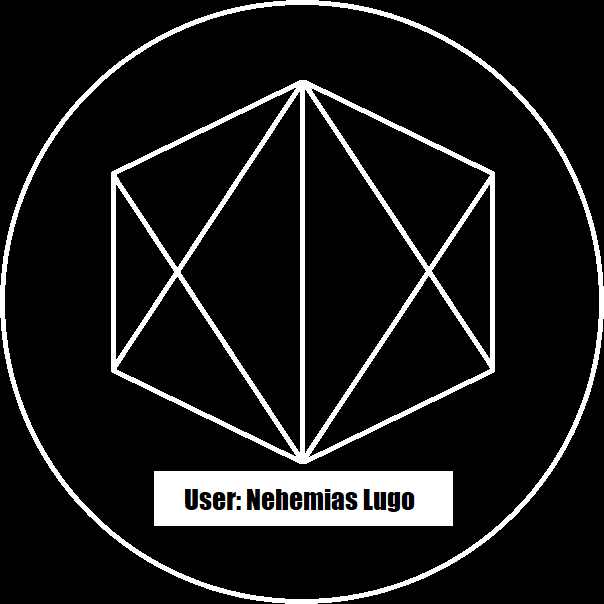
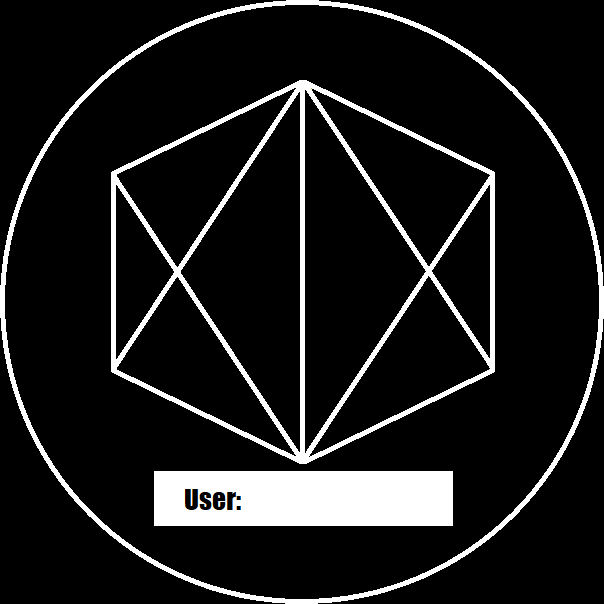
se agrego color celeste a textos

Changed region(s): [[0.3874, 0.8046, 0.6854, 0.8642]]

diff --git a/index.html b/index.html
@@ -14,8 +14,10 @@
         <img src="assets/imagen.png" alt="logo" width="500"/>
     </div>
 
+    <h2 style="position: absolute; top: 524px; left: 665px; color: black;">NEHEMIAS LUGO</h2>
+
     <h2>Descripcion Personal:</h2>
-    <p>Hola, soy Nehemias Lugo. <br>Nací el 26 de enero del 2005 en la ciudad de Selva, Santiago del estero, Argentina.<br>Comencé a estudiar la lógica de programación a temprana edad modificando videojuegos de Pokêmon para la Game Boy Advance haciendo scripts de eventos, siendo este fue mi primer acercamiento a la creación de videojuegos.<br> Aqui un pequeño ejemplo de cosas que aprendî:</p>
+    <p>Nombre: Nehemias Lugo. <br>Fecha de Nacimiento: 26 de enero del 2005. <br>Localidad: ciudad de Selva, Santiago del estero, Argentina.<br><br>Comencé a estudiar la lógica de programación a temprana edad modificando videojuegos de Pokêmon para la Game Boy Advance haciendo scripts de eventos, siendo este fue mi primer acercamiento a la creación de videojuegos.<br> Aqui un pequeño ejemplo de cosas que aprendî:</p>
 
     <!-- reproductor de mi video en html -->
     <div style="text-align: center;">
@@ -24,8 +26,9 @@
 
     <!-- imagen que te lleva a instagram-->
     <a target="_blank" href="https://www.instagram.com/nemylugolandriel/">
-        <img src="https://mapl.ploud.net/instagram-button.png/@@images/image.png" alt="Instagram" width="50">
+        <img src="https://mapl.ploud.net/instagram-button.png/@@images/image.png" alt="Instagram" width="50" style="position: absolute; top: px; left: px;">
     </a>
+    
 
 </body>
 </html>

diff --git a/assets/css/style.css b/assets/css/style.css
@@ -1,16 +1,23 @@
 body{
-    background-color: black
+    background-color: black;
+    margin: 0
 }
 
-p, h2 {
+h2 {
     color: hsl(0, 0%, 100%);
     font-family: impact, Arial, Helvetica, sans-serif;
     font-size: 20px;
     padding-left: 30px;
 }
+p {
+    color: rgb(54, 220, 254);
+    font-family: Arial, Helvetica, sans-serif;
+    font-size: 20px;
+    padding-left: 30px;
+}
 
 h1 {
-    background-color: rgba(255, 255, 255, 0.5);
+    background-color: rgb(54, 220, 254);
     color: black;
     padding: 30px;
     font-family: Arial, Helvetica, sans-serif;
